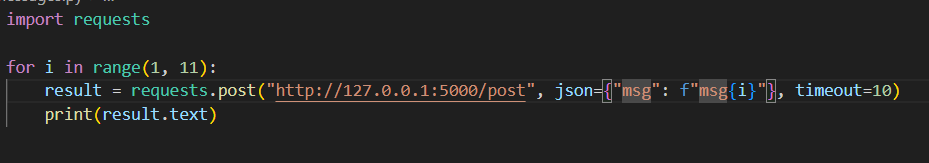
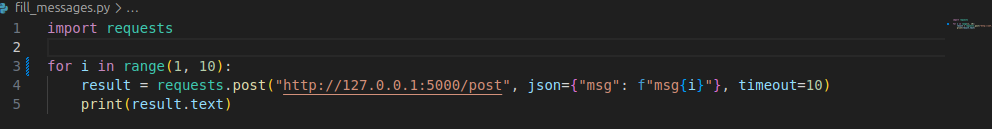
done

diff --git a/facade_service.py b/facade_service.py
@@ -3,7 +3,11 @@ import time
 import requests
 import uuid
 import random
+from kafka import KafkaProducer
+from kafka.errors import KafkaError
 
+
+producer = KafkaProducer(bootstrap_servers=['localhost:9092', 'localhost:9093', 'localhost:9094'])
 
 app = Flask(__name__)
 
@@ -14,14 +18,14 @@ LOGGING_SERVICES = [
     "http://localhost:5002",
     "http://localhost:5003"
 ]
-MESSAGES_SERVICE_URL = "http://localhost:5004"
+MESSAGES_SERVICE_URL = ["http://localhost:5004", "http://localhost:5005"]
 
-def get_available_service():
+def get_available_service(service_list = LOGGING_SERVICES, url = "logs"):
     """Випадково вибирає logging-service та перевіряє його доступність."""
-    random.shuffle(LOGGING_SERVICES)
-    for service in LOGGING_SERVICES:
+    random.shuffle(service_list)
+    for service in service_list:
         try:
-            response = requests.get(f"{service}/logs", timeout=1)
+            response = requests.get(f"{service}/{url}", timeout=1)
             if response.status_code == 200:
                 return service
         except requests.exceptions.RequestException:
@@ -30,6 +34,7 @@ def get_available_service():
 
 @app.route('/post', methods=['POST'])
 def post_message():
+    print("POST")
     data = request.json
     msg = data.get("msg")
     if not msg:
@@ -42,6 +47,12 @@ def post_message():
     log_to_service = requests.post(f"{selected_service}/log", json=payload, timeout=5)
     if log_to_service.status_code != 200:
         return jsonify({"error": f"Logging service unreachable after {MAX_RETRIES} retries"}), 50
+    future = producer.send('test_topic', msg.encode('utf-8'))
+    try:
+        record_metadata = future.get(timeout=10)  # Wait for the result with a timeout
+        print(f"Message sent to topic {record_metadata.topic}, partition {record_metadata.partition}, offset {record_metadata.offset}")
+    except KafkaError as e:
+        print(f"Error while sending message: {e}")
     return jsonify(payload) 
 
 @app.route('/get', methods=['GET'])
@@ -49,12 +60,19 @@ def get_messages():
     selected_service = get_available_service()
     if not selected_service:
         return jsonify({"error": "No available logging-service"}), 503
+
+    selected_message_service = get_available_service(MESSAGES_SERVICE_URL, "message")
+    if not selected_message_service:
+        return jsonify({"error": "No available logging-service"}), 503
+
     log_response = requests.get(f"{selected_service}/logs", timeout=5)
     if log_response.status_code != 200:
         return jsonify({"error": f"Logging service unreachable after {MAX_RETRIES} retries"}), 50
-    msg_response = requests.get(f"{MESSAGES_SERVICE_URL}/message", timeout=5)
+    
+    msg_response = requests.get(f"{selected_message_service}/message", timeout=5)
     if msg_response.status_code != 200:
-        return jsonify({"error": f"Logging service unreachable after {MAX_RETRIES} retries"}), 50
+        return jsonify({"error": f"Message service unreachable after {MAX_RETRIES} retries"}), 50
+    
     return (log_response.text + " " + msg_response.text + "\n").strip(" \t")
 
 if __name__ == '__main__':

diff --git a/messages_service.py b/messages_service.py
@@ -1,10 +1,39 @@
-from flask import Flask
+from flask import Flask, jsonify
+from threading import Thread
+from kafka import KafkaConsumer
+import os
+import uuid
 
 app = Flask(__name__)
+messages = []
+
+KAFKA_BOOTSTRAP_SERVERS = ['localhost:9092', 'localhost:9093', 'localhost:9094']
+
+def consume_messages():
+    consumer = KafkaConsumer(
+        'test_topic',
+        bootstrap_servers=KAFKA_BOOTSTRAP_SERVERS,
+        group_id=f'my-group-{uuid.uuid4()}',
+        auto_offset_reset='earliest',
+        enable_auto_commit=True,
+        value_deserializer=lambda x: x.decode('utf-8')
+    )
+    print("consumer created")
+    for message in consumer:
+        print(f"[Kafka] Отримано повідомлення: {message.value}")
+        messages.append(message.value)
 
 @app.route('/message', methods=['GET'])
-def get_static_message():
-    return "not implemented yet"
+def get_messages():
+    return jsonify(" ".join(messages)), 200
+
+def start_kafka_thread():
+    consumer_thread = Thread(target=consume_messages)
+    consumer_thread.daemon = True
+    consumer_thread.start()
 
 if __name__ == '__main__':
-    app.run(port=5004, debug=True)
+    start_kafka_thread()
+    port = int(os.environ.get("PORT", 5004))
+    app.run(host="127.0.0.1", port=port, debug=True, use_reloader=False)
+

diff --git a/logging_service.py b/logging_service.py
@@ -4,7 +4,7 @@ import os
 import signal
 import subprocess
 
-HAZELCAST_PATH = "/mnt/d/hazelcast-5.5.0/bin/hz"
+HAZELCAST_PATH = "/home/compicraft/hazelcast/hazelcast-5.5.0/bin/hz"
 app = Flask(__name__)
 
 hz_client = None
@@ -52,5 +52,5 @@ def get_logs():
 with app.app_context():
     init_hazelcast() 
 if __name__ == "__main__":
-    port = int(os.environ.get("PORT", 5000))
+    port = int(os.environ.get("PORT", 5001))
     app.run(host="127.0.0.1", port=port, debug=True)

diff --git a/fill_messages.py b/fill_messages.py
@@ -1,5 +1,5 @@
 import requests
 
-for i in range(1, 11):
-    result = requests.post("http://127.0.0.1:5000/post", json={"msg": f"msg{i}"}, timeout=10)
+for i in range(1, 10):
+    result = requests.post("http://127.0.0.1:5000/post", json={"msg": f"new_msg{i}"}, timeout=10)
     print(result.text)

diff --git a/get_messages.py b/get_messages.py
@@ -1,0 +1,5 @@
+import requests
+
+
+result = requests.get("http://127.0.0.1:5000/get", timeout=10)
+print(result.text)

diff --git a/README.md b/README.md
@@ -5,47 +5,46 @@
 <mark>```git clone https://github.com/Compi-Craft/software_architecture_1.git```</mark>
 
 ### Prerequisites
-<mark>```pip install -r requirements.txt```</mark>
-
+<mark>```pip install -r requirements.txt```</mark><br>
+Also docker
 ### Usage
 
-Run all services
-
+Run all services<br>
+```docker compose up -d```<br>
 ```gunicorn -b 127.0.0.1:5001 logging_service:app```<br>
 ```gunicorn -b 127.0.0.1:5002 logging_service:app```<br>
 ```gunicorn -b 127.0.0.1:5003 logging_service:app```<br>
 ```python3 logging_service.py```<br>
-```python3 messages_service.py```<br>
+```PORT=5004 python3 messages_service.py```<br>
+```PORT=5005 python3 messages_service.py```<br>
 
 1. Отримуємо три ноди hazelcast
 
 ![Example Image](images/image_1.png)
 
-2. Записуємо 10 повідомлень через fill_messages.py скрипт
+2. Отримуємо наступну конфігурацію Kafka
+![Example Image](images/image_10.png)
+
+1. Записуємо 9 повідомлень через fill_messages.py скрипт
 
 ![Example Image](images/image_2.png)
 
-Отримуємо такий розподіл повідомлень
+Отримуємо такий розподіл повідомлень у  message services
 
-![Example Image](images/image_3.png)
+![Example Image](images/image_11.png)
+![Example Image](images/image_12.png)
 
-3. Звернення до кожного екземпляру logging_service відбувалося випадковим чином:
-![Example Image](images/image_4.png)
-![Example Image](images/image_5.png)
-![Example Image](images/image_6.png)
-
-4. Прочитаємо через curl повідомлення
-
-```curl -X GET http://localhost:5000/get```
-
-Отримаємо:
-![Example Image](images/image_7.png)
-
-5. Вимкнемо екземпляри logging_service на портах 5002 і 5003:
-![Example Image](images/image_8.png)
-
-Тепер всі записи знаходяться в одній ноді
-
-Прочитаєм їх через GET запит
-![Example Image](images/image_9.png)
-Все працює як раніше
+4. Зробимо get request, отримуємо набір повідомлень з випадково обраного message service
+![Example Image](images/image_13.png)
+### Перевірка відмовостійкості
+1. Вимикаємо message services
+![Example Image](images/image_14.png)
+2. Надсилаємо 9 повідомлень
+![Example Image](images/image_15.png)
+![Example Image](images/image_16.png)
+3. Вимикаємо одного з лідерів
+![alt text](images/image.png)
+4. Вмикаємо message service і дивимось чи зчитає
+![alt text](images/image_17.png)
+Перший запущений сервіс все зчитав і зберіг у пам'ять, отже реплікація працює
+![alt text](images/image_18.png)
